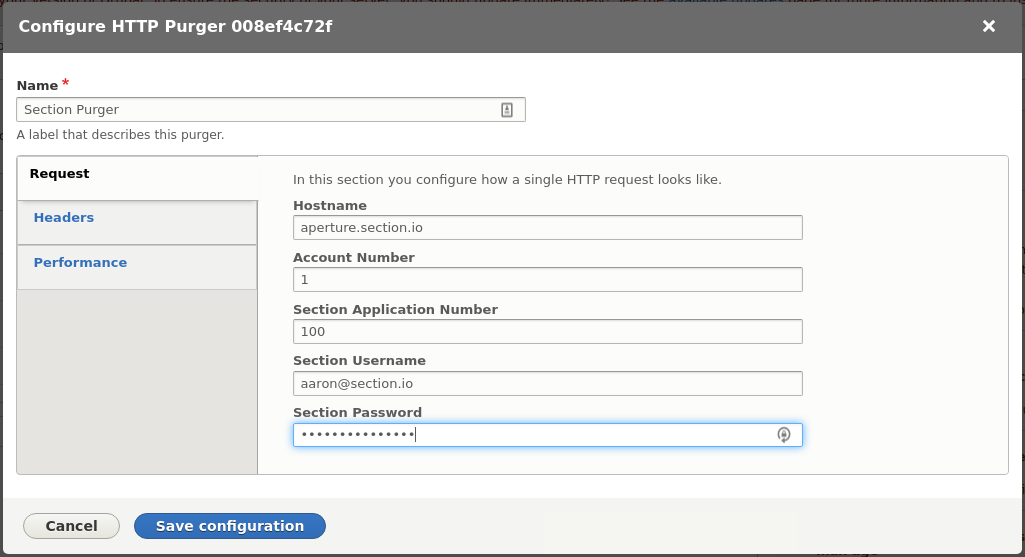
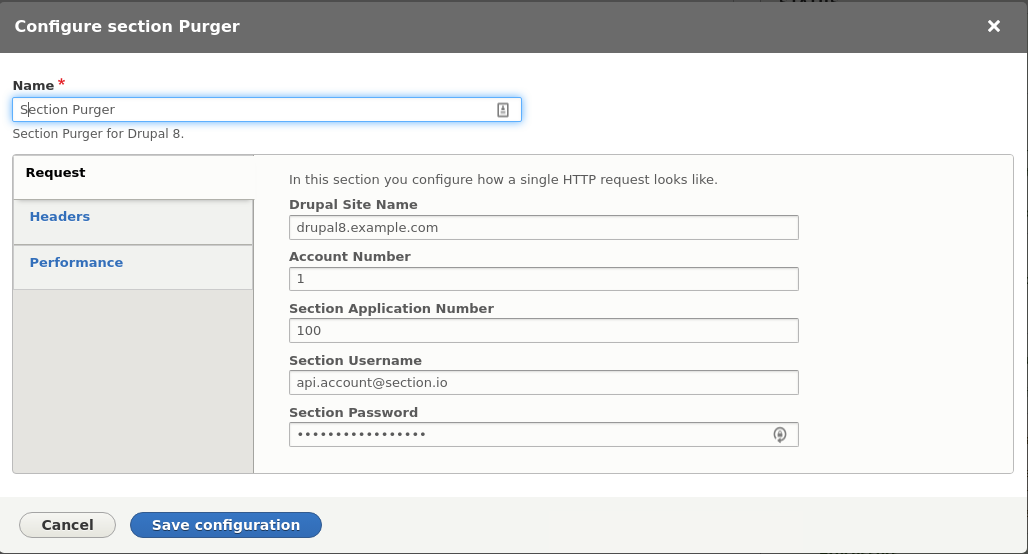
update drupal docs for multisite and other miscellaneous changes

diff --git a/content/integrations/how-tos/drupal-setup/set-up-drupal-8.md b/content/integrations/how-tos/drupal-setup/set-up-drupal-8.md
@@ -1,41 +1,41 @@
 ---
 title: Set up Drupal 8 on Section
-description: Guide for evaluating your website performance and how to use Section to make improvements using our Drupal Module.
+description: Guide to connecting a Drupal instance to the Section platform with our Drupal module.
 keywords: cache, website performance, page speed, webpage speed, Drupal
 weight: 10
 aliases:
   - /how-to/drupal-setup/drupal8/
 ---
 
-The following is a guide to installing the Section Drupal module into an existing Drupal 8 application. This module allows Section's global, distributed caching layer to quickly respond to invalidation events from a Drupal instance in exactly the same way that Drupal's internal cache or a local varnish cache running on the host machine does, ensuring that the content in Section's global caching layer is always up to date.
+The following is a guide to installing the Section Drupal module into an existing Drupal 8 application. This module allows Section's global, distributed caching layer to quickly respond to invalidation events from a Drupal instance in exactly the same way that Drupal's internal cache or a local varnish cache running on the host machine does, ensuring that the content in Section's global caching layer is never stale.
 
 ### Prerequisites
 
 * An existing Section application. For help setting up an application, [go here](https://www.section.io/docs/tutorials/activate-section-io/create-application-edge/)
-* A user account to be associated with the Drupal Module (many customers choose to create a user account that exists simply to authenticate cache clearing and is not associated with a specific real person). To create an account please visit [this link](https://www.section.io/public/register) and for help adding a new user to an app please [see here](https://www.section.io/docs/how-to/user-management/add-a-user-to-your-account/)
+* A user account to be associated with the Drupal Module (many customers choose to create a user account that exists simply to authenticate cache clearing and is not associated with a specific, real person). To create an account please visit [this link](https://www.section.io/public/register) and for help adding a new user to an app please [see here](https://www.section.io/docs/how-to/user-management/add-a-user-to-your-account/)
 * The Drupal 8 [purge module](https://www.drupal.org/project/purge) installed.
 
 ### Download the Section Purger
 
-This module can be found [here](https://github.com/section/drupal-purger). Download as a zip file and load into your Drupal instance. 
+This module can be found [here](https://github.com/section-io/drupal-purger). Download the latest release as a zip/tar file and load into your Drupal instance. We also support installing via composer.
 
 ### Enable Purge and Section Purger Modules
 
-Under `PURGE`, enable the `Purge`, `Purge Tokens`, and `Purge UI` submodules. We are also compatible with Drush but it is not required.
+Click the Extend tab in the admin console or otherwise navigate to `/admin/modules`. If the Purge module is installed correctly, this page should contain a section called PURGE with various available submodules. Enable the `Purge`, `Purge Tokens`, and `Purge UI` submodules. We are also compatible with Drush but it is not required.
 
 {{% figure src="/docs/images/drupal8-purge-modules.png" %}}
 
-You also need to enable a way to process cache invalidation items. You choices are the `Cron processor` and the `Late runtime processor`.The `Cron Processor` will process cache invalidations only when the cronjob is run (it runs automatically on a predefined schedule or you can initiate it manually from the admin console), while the `Late runtime processor` will initate cache bans as soon as a piece of content is changed. It does not matter to our module whether you choose either or both.
+You also need to enable a way to process cache invalidation items. You choices are the `Cron processor` and the `Late runtime processor`.The `Cron Processor` will process cache invalidations only when the cronjob is run (it runs automatically on a predefined schedule or you can initiate it manually from the admin console), while the `Late runtime processor` will initiate cache bans as soon as a piece of content is changed. It does not matter to our module whether you choose either or both.
 
 {{% figure src="/docs/images/drupal8-cron-options.png" %}}
 
-Finally, enable the Section Purger itself, along with the `Generic HTTP Tags Header` module. This module ensures that Drupal sends the appropriate cache tags that our module uses to evict expired assets from the cache.
+Finally, enable the Section Purger itself, along with the `Section HTTP Tags Header` module and the `Core Tags Queuer`. This module ensures that Drupal sends the appropriate cache tags that our module uses to evict expired assets from the cache.
 
 {{% figure src="/docs/images/drupal8-purger-modules.png" %}}
 
 ### Configure Full Page Cache Max Age
 
-Navigate to `/admin/config/development/performance` and set `Page Cache Max Age` to whatever value you prefer. Since the extension is clearing the cache whenever a change event occurs, there is no need to wait for object resources to expire naturally and you can safely choose 1 year.
+Navigate to `/admin/config/development/performance` and set `Page Cache Max Age` to whatever value you prefer. Since the extension is clearing the cache whenever a change event occurs, there is no need to wait for object resources to expire naturally and you can safely choose 1 year. Varnish Cache's default behavior is to cache according to the cache-control headers on the response, but Varnish Cache can also be configured to set its own internal TTL value for cached objects based on content-type, status, or other response attributes. For more information on this, please see our Varnish Cache guides.
 
 ### Enable the Section Purger within the Purge UI
 
@@ -47,6 +47,7 @@ Next, click on `Add Purger` to open the UI to create a new Purger and select `HT
 
 Next, click on the small arrow next to the purger and click `configure`. This will open the UI to fill in your account credentials and connect your Drupal module to the Section platform.
 
+*Note:* `The Drupal Site Name` field should be the full hostname of the site for which you are configuring the purger, and is only necessary when setting up a Drupal 8  multisite. If your Drupal instance is not a multi-site, then this field can be left blank.  
 Once here, input the details of the user account you would like to use to authenticate with our API. Once done, click `Save Configuration`. Once saved and configured properly, the status bar on the right hand side should show all green as pictured below.
 
 {{% figure src="/docs/images/drupal8-configure-purger.png" %}}
